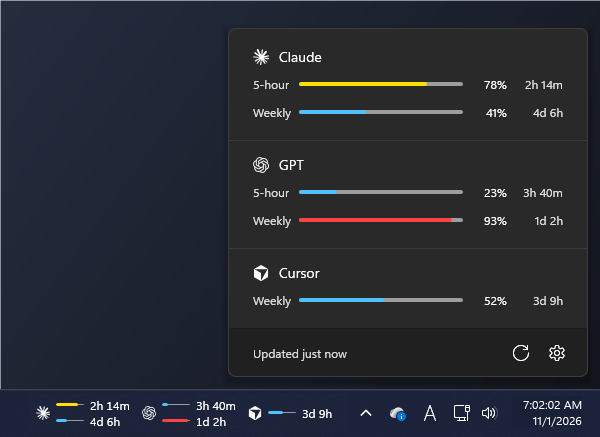
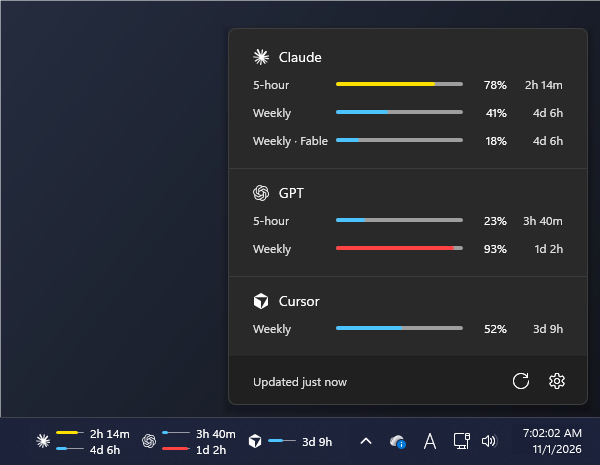
Cap the 429 pause at 2 minutes; screenshot with Claude's per-model weekly row
- First 429: 1 minute; further 429s in a row: 2 minutes (a longer Retry-After still wins)
- Demo data includes a per-model weekly limit, and the README picture shows it

diff --git a/src/LimitBar/UsageStore.cs b/src/LimitBar/UsageStore.cs
@@ -14,9 +14,10 @@ namespace LimitBar
         static readonly TimeSpan AfterReset = TimeSpan.FromSeconds(30);
         // The Claude endpoint answers 429 when asked too often.
         static readonly TimeSpan MinGap = TimeSpan.FromSeconds(30);
-        // After a 429 a service is left alone this long (or as long as it asks), doubling on each
-        // further 429 so a short refresh interval doesn't keep running into the limit.
+        // After a 429 a service is left alone this long (or as long as it asks); longer if it keeps
+        // answering 429, so a 1-minute refresh interval doesn't run into the limit every time.
         static readonly TimeSpan RateLimitPause = TimeSpan.FromMinutes(1);
+        static readonly TimeSpan RepeatedRateLimitPause = TimeSpan.FromMinutes(2);
 
         readonly IUsageProvider[] _providers;
         readonly Dictionary<string, ServiceUsage> _latest = new Dictionary<string, ServiceUsage>();
@@ -144,7 +145,7 @@ namespace LimitBar
             {
                 var inRow = _limitedInRow.TryGetValue(provider.Id, out var n) ? n + 1 : 1;
                 _limitedInRow[provider.Id] = inRow;
-                var pause = TimeSpan.FromTicks(Math.Min(ErrorBackoff.Ticks, RateLimitPause.Ticks << Math.Min(inRow - 1, 10)));
+                var pause = inRow == 1 ? RateLimitPause : RepeatedRateLimitPause;
                 if (ex.RetryAfter > pause) pause = ex.RetryAfter.Value;
                 var until = DateTimeOffset.Now + pause;
                 if (_pausedUntil.TryGetValue(provider.Id, out var earlier) && earlier > until) until = earlier;

diff --git a/src/LimitBar/Providers/DemoProvider.cs b/src/LimitBar/Providers/DemoProvider.cs
@@ -22,7 +22,8 @@ namespace LimitBar.Providers
         {
             new DemoProvider("claude", "Claude",
                 ("5h", TimeSpan.FromHours(5), 78, new TimeSpan(2, 14, 0), false),
-                ("1w", TimeSpan.FromDays(7), 41, new TimeSpan(4, 6, 0, 0), false)),
+                ("1w", TimeSpan.FromDays(7), 41, new TimeSpan(4, 6, 0, 0), false),
+                ("1w|Fable", TimeSpan.FromDays(7), 18, new TimeSpan(4, 6, 0, 0), false)),
             new DemoProvider("gpt", "GPT",
                 ("5h", TimeSpan.FromHours(5), 23, new TimeSpan(3, 40, 0), false),
                 ("1w", TimeSpan.FromDays(7), 93, new TimeSpan(1, 2, 0, 0), false)),
